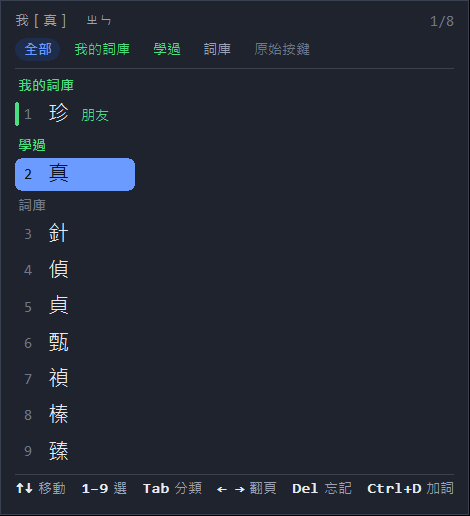
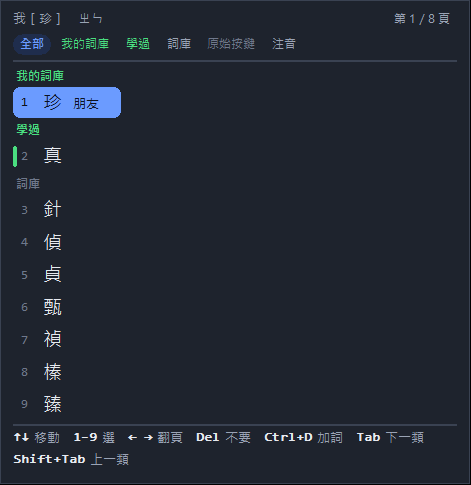
feat(settings): 頁碼與注音的紅點、說明列與快捷鍵表；設定頁的候選窗圖重畫
- whatsnew 兩筆（0.11.0-alpha.2）：zhuyin「國字可以直接換成注音」、cand-page「候選窗寫出現在
  在第幾頁」，都指到「打字與選字 → 候選窗」新加的兩列（data-new）
- 修正模式的按鍵表多 z；快捷鍵表（renderShortcuts）多 Home、「注音」組、修正 z，
  PageUp/PageDown 那列寫出頁碼長什麼樣
- 設定頁的 cand-zh／decode-correcting 圖從 b04bee6 之後沒重畫過，還是舊的「1/8」、
  沒有「注音」籤與「z 注音」：用 panel_preview 照原本大小重畫

diff --git a/src/smartime/settings/ui/app.js b/src/smartime/settings/ui/app.js
@@ -1340,9 +1340,11 @@
       ["打字", "<kbd>Ctrl</kbd>+<kbd>D</kbd>", "把游標前的中文、或游標前的英文字加入我的詞庫。英文照你打的加（venv 被讀成 ven、wrold 被改成 world 時按一下，就照原樣顯示，以後也不再改）。底線算字的一部分：m_index、m_ 這種變數名稱整個加", D],
       ["選字", "<kbd>↓</kbd> <kbd>↑</kbd>", "打開候選窗（游標前／後的字），選取停在目前的字", D],
       ["選字", "<kbd>1</kbd>–<kbd>9</kbd>", "直接選候選（上排或數字鍵盤，NumLock 開不開都可以）", D],
-      ["選字", "<kbd>Tab</kbd> <kbd>Shift</kbd>+<kbd>Tab</kbd>", "只看某一組：我的詞庫、學過、詞庫、原始按鍵…", D],
+      ["選字", "<kbd>Tab</kbd> <kbd>Shift</kbd>+<kbd>Tab</kbd>", "只看某一組：我的詞庫、學過、詞庫、原始按鍵、注音…", D],
+      ["選字", "最後一組「注音」", "照注音打出去：這個字（天 → ㄊㄧㄢ）或整段中文（你好 → ㄋㄧˇㄏㄠˇ）", D],
       ["選字", "<kbd>→</kbd> <kbd>←</kbd>", "多欄（預設開啟）：→ 在右邊打開下一欄、游標停在同一列；← 往回走，在第一欄再按就收回成一列。關閉多欄時是翻頁", D],
-      ["選字", "<kbd>PageUp</kbd> <kbd>PageDown</kbd>", "翻頁", D],
+      ["選字", "<kbd>PageUp</kbd> <kbd>PageDown</kbd>", "翻頁（右上角寫著「第 3／27 頁」，不在第 1 頁時藍底）", D],
+      ["選字", "<kbd>Home</kbd>", "回到第 1 頁：候選窗打開時停在現在的字，那可能在後面幾頁，最常用的詞在第 1 頁", D],
       ["選字", "<kbd>Ctrl</kbd>+<kbd>D</kbd>", "把選中的候選加入詞庫", D],
       ["選字", "選字框裡按 <kbd>Delete</kbd>", "這個不對：學過的詞忘掉使用紀錄；學過但不是詞的組合（像「開新」）和沒學過的詞就封鎖、不再建議", D],
       ["選字", "紅色的「略過的鍵」", "被當成手滑略過的鍵：選原樣的鍵就保留它，注音鍵還能選注音符號本身或這個音的字（p → ㄣ、恩）。修正模式裡游標走到它旁邊再按 <kbd>↓</kbd> 也找得到", D],
@@ -1356,6 +1358,7 @@
       ["修正", "<kbd>r</kbd>", "重打這個字：刪掉它的注音重打，打完自動回到修正模式；打到一半按 <kbd>Esc</kbd> 原字放回去", corr],
       ["修正", "<kbd>x</kbd> <kbd>u</kbd> <kbd>Enter</kbd> <kbd>Esc</kbd>", "刪這一格 / 復原 / 送出 / 回到打字（<kbd>i</kbd> 也可以）", corr],
       ["修正", "<kbd>v</kbd> <kbd>e</kbd> <kbd>a</kbd>", "換檢視 / 中⇄英（停在被略過的鍵上＝保留它） / 加詞：游標上的中文詞，或游標上的英文字照打的加（<kbd>Ctrl</kbd>+<kbd>D</kbd> 一樣）", corr],
+      ["修正", "<kbd>z</kbd>", "游標上的國字換成注音（你 → ㄋㄧˇ），再按一次換回國字", corr],
       ["模式", "單按 <kbd>Shift</kbd>", "切換模式（上面設定左／右／兩邊；輪流哪些在「一般」）", D],
       ["模式", "系統匣圖示右鍵", "直接選任何模式、開啟設定", D],
       ["模式", "<kbd>Caps Lock</kbd>", "直接打英文大寫", D],

diff --git a/src/smartime/settings/ui/index.html b/src/smartime/settings/ui/index.html
@@ -225,6 +225,16 @@
             </picture>
             <p class="note" style="margin-bottom:0">候選窗由輸入法自己畫：<b style="color:var(--ok)">綠色</b>是你自己的詞（我的詞庫、學過），一組一組排好；<kbd>Tab</kbd> 只看某一組；紅色「略過的鍵」是被當成手滑的鍵，選了就照原樣保留。</p>
           </div></div>
+          <div class="row"><div class="full">
+            <div class="label" data-new="cand-page">現在在第幾頁</div>
+            <div class="desc">候選窗右上角寫著「第 3／27 頁」，不在第 1 頁時用藍底標出來——打開時會停在畫面上現在那個字，那可能在後面幾頁，
+              最常用的詞在第 1 頁。按 <kbd>Home</kbd> 一下回到第 1 頁。</div>
+          </div></div>
+          <div class="row"><div class="full">
+            <div class="label" data-new="zhuyin">把國字換成注音</div>
+            <div class="desc">候選窗最後一組「注音」：這個字（天 → ㄊㄧㄢ）或整段（你好 → ㄋㄧˇㄏㄠˇ），選了就照注音打出去。
+              <a href="#fix" data-goto="fix">修正模式</a>裡游標停在字上按 <kbd>z</kbd>，那個字就換成注音，再按一次換回國字。</div>
+          </div></div>
           <div class="row">
             <div><div class="label">用順打面板顯示候選</div><div class="desc">關閉後改回 PIME 的純文字候選窗（不分組、沒有顏色）。沒在打字時單按 <kbd>Ctrl</kbd> 叫出的符號面板也一樣。</div></div>
             <label class="switch"><input type="checkbox" data-cfg="panel_candidates" aria-label="順打面板候選窗"><span></span></label>
@@ -310,6 +320,7 @@
                 <tr><td><kbd>v</kbd></td><td>切換顯示：國字 → 注音 → 按鍵</td></tr>
                 <tr><td><kbd>x</kbd></td><td>刪掉游標上的那一格；在「按鍵」檢視時只刪一個鍵（例如那個多按的 e）</td></tr>
                 <tr><td><kbd>e</kbd></td><td>這段在 中文 ⇄ 英文 ⇄ 原始按鍵 之間切換</td></tr>
+                <tr><td><kbd>z</kbd></td><td>游標上的國字換成注音（你 → ㄋㄧˇ），再按一次換回國字</td></tr>
                 <tr><td><kbd>r</kbd></td><td>重打這一個字（其他字不動，打完自動回到修正模式）</td></tr>
                 <tr><td><kbd>a</kbd></td><td>把游標前的詞加入詞庫</td></tr>
                 <tr><td><kbd>u</kbd></td><td>復原上一步（和打字時的 <kbd>Ctrl</kbd>+<kbd>Z</kbd> 同一份紀錄；<kbd>Ctrl</kbd>+<kbd>Y</kbd> 重做）</td></tr>

diff --git a/src/smartime/whatsnew.py b/src/smartime/whatsnew.py
@@ -51,6 +51,11 @@ class Feature:
 
 # Newest first. Only features — never words, phrases or symbol data.
 FEATURES: tuple[Feature, ...] = (
+    Feature("zhuyin", "0.11.0-alpha.2", "typing", "國字可以直接換成注音",
+            "候選窗最後一組「注音」：這個字（天 → ㄊㄧㄢ）或整段（你好 → ㄋㄧˇㄏㄠˇ），選了就照注音打出去。"
+            "修正模式裡按 z，游標上的字換成注音，再按一次換回國字。"),
+    Feature("cand-page", "0.11.0-alpha.2", "typing", "候選窗寫出現在在第幾頁",
+            "右上角「第 3／27 頁」，不在第 1 頁時用藍底標出來；按 Home 一下回到第 1 頁，最常用的詞都在那裡。"),
     Feature("composing-hint", "0.11.0-alpha.1", "typing", "還沒送出的字，提示會說怎麼送出",
             "游標旁邊的小點旁邊多了「Enter 送出」：看到對了就按 Enter，後面再打什麼都動不到它。"
             "嫌多可以換回只有一個點，或換成一支筆。標點也不會再改掉你剛看到的英文了。"),
